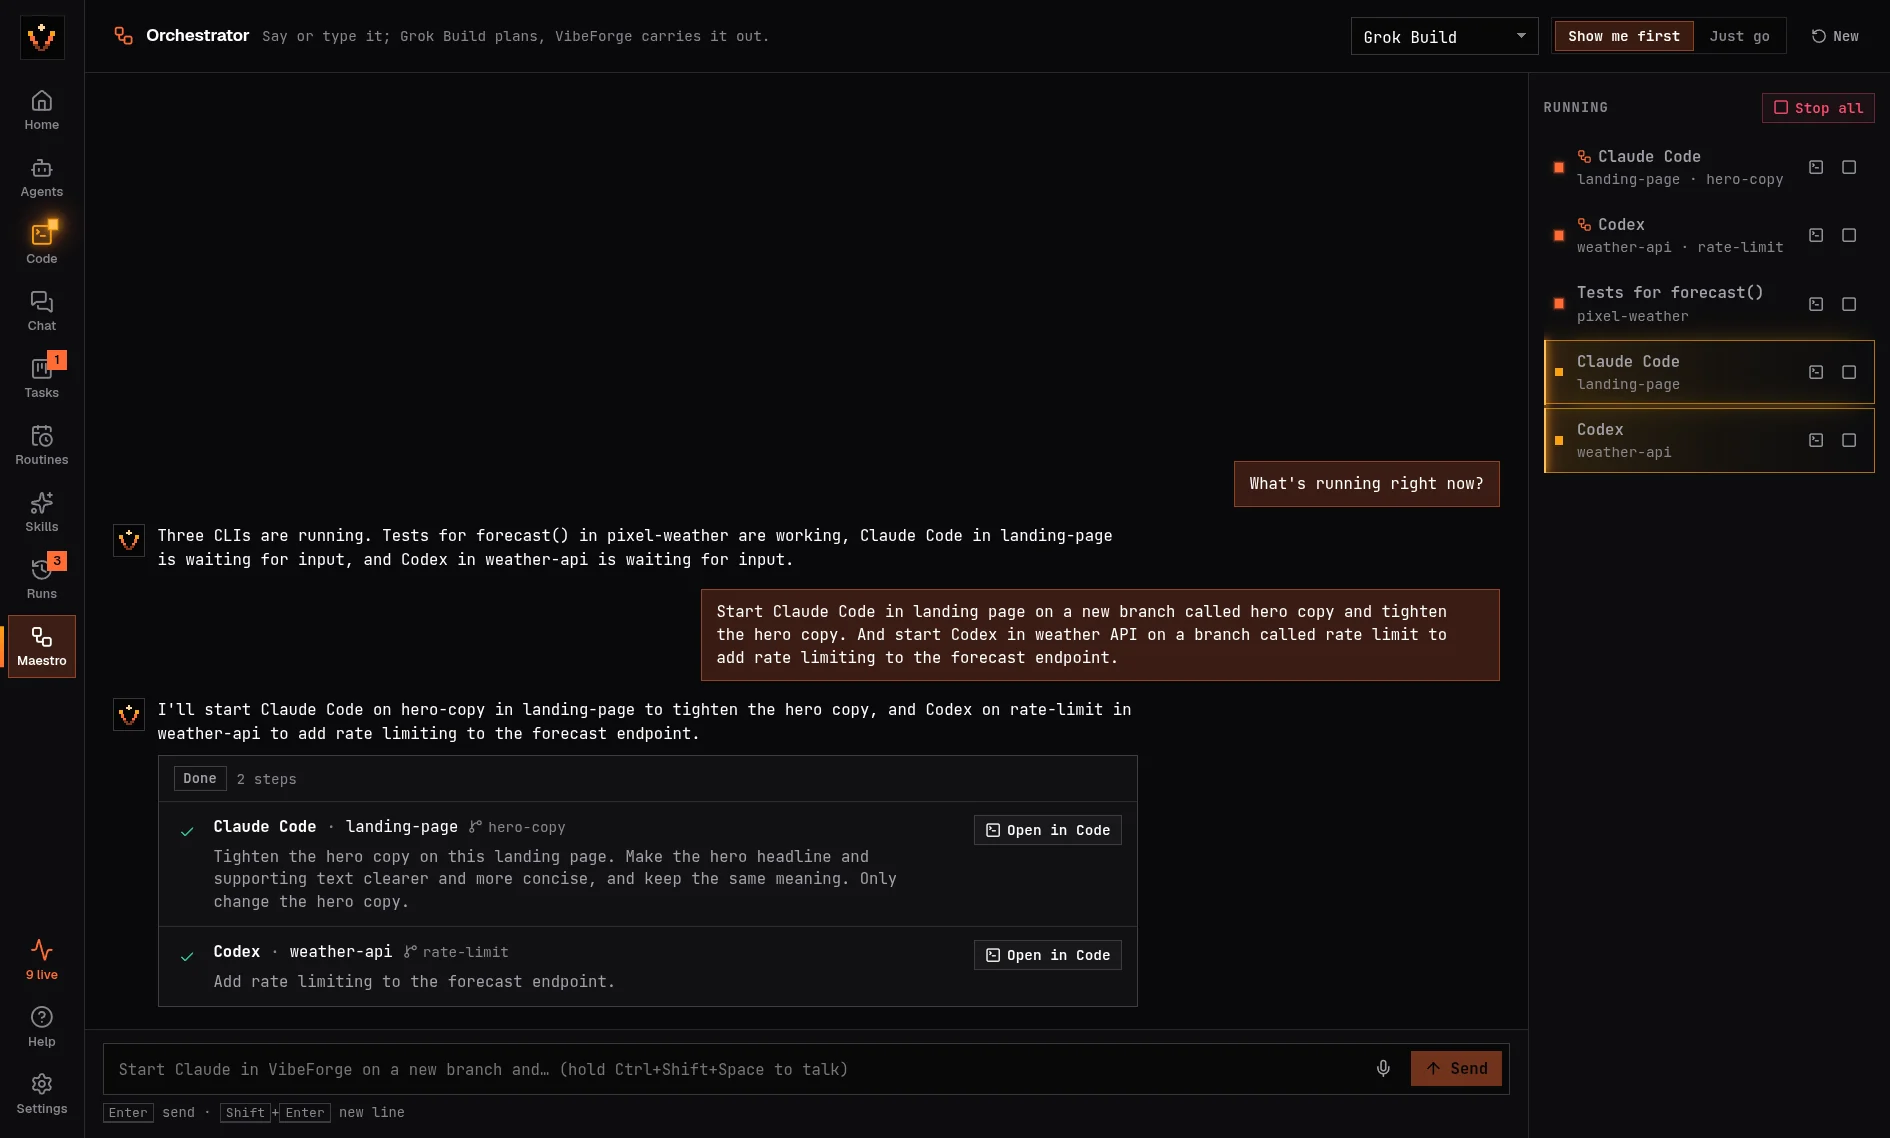
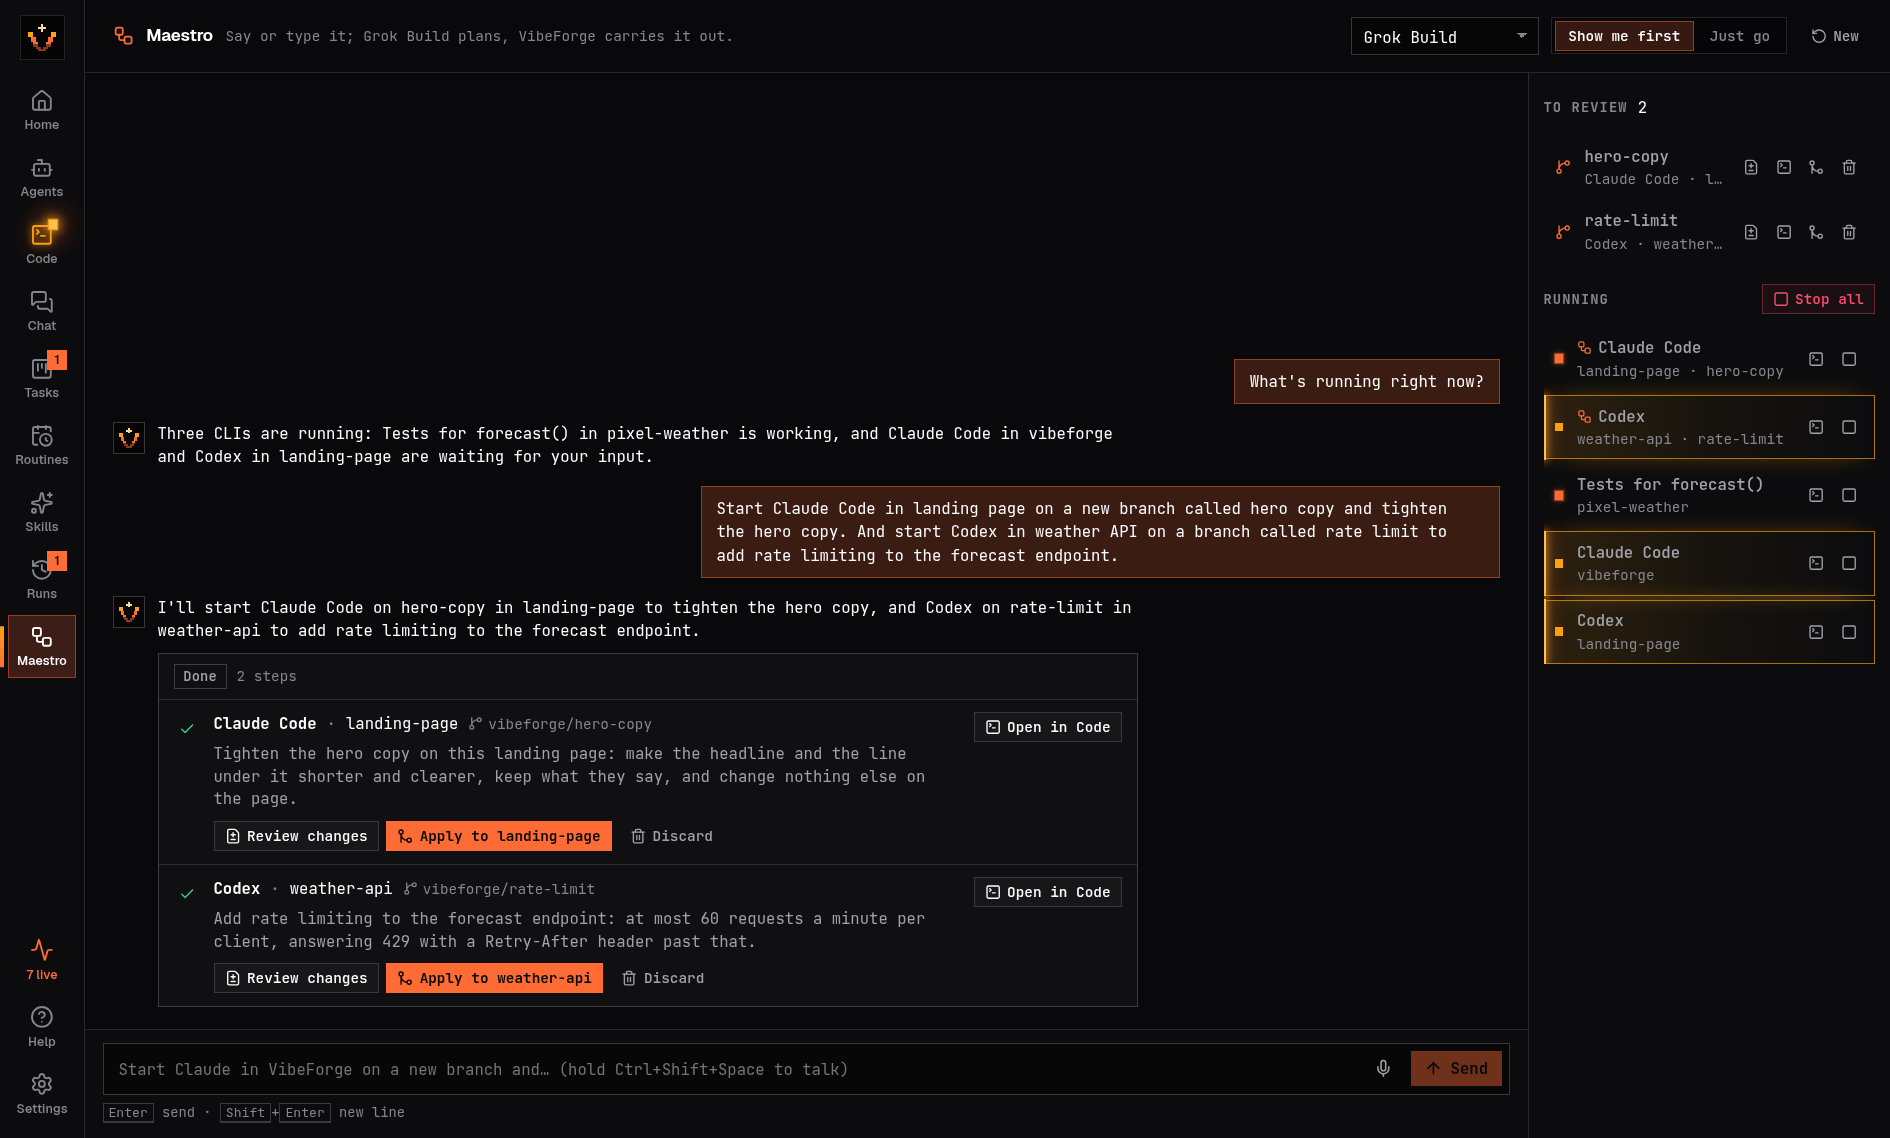
chore(site): retake the Maestro screenshot so it says Maestro
The tour's Maestro shot was taken before the feature got its one name,
so its title still read "Orchestrator". Retaken on 2.14.1 at the same
1890x1138, Apex Forge theme and demo projects as the other three, with
stand-in CLIs only. It now shows the newest part: each started step
with Review changes, Apply and Discard, and the copies under To review.
Lossless WebP keeps the small text crisp at about the old file's size.
The intro line names both versions the shots come from.

diff --git a/site/index.html b/site/index.html
@@ -609,7 +609,7 @@
         <div class="section-head reveal">
           <span class="kicker"><b>03</b> Tour</span>
           <h2>Inside the real app.</h2>
-          <p>Screenshots of VibeForge 2.12.1 on a working day, in the Apex Forge theme.</p>
+          <p>Screenshots of VibeForge 2.12.1 and 2.14.1 at work, in the Apex Forge theme.</p>
         </div>
         <div class="tour reveal" data-tour>
           <div class="tour-tabs" role="tablist" aria-label="Screenshots">
@@ -629,7 +629,7 @@
               <img src="assets/app-tasks.webp?v=2.12.1" width="1890" height="1138" alt="The task board with cards in To do, Running, Review and Done, each assigned to an agent and a workspace, the finished ones with their diff." loading="lazy" />
             </figure>
             <figure class="shot">
-              <img src="assets/app-maestro.webp?v=2.12.1" width="1890" height="1138" alt="Maestro: asked what's running, it answers in a sentence; asked to start Claude Code in landing-page on hero-copy and Codex in weather-api on rate-limit, it shows the plan, both steps done with Open in Code, and the Running list beside it marks the two it started." loading="lazy" />
+              <img src="assets/app-maestro.webp?v=2.14.1" width="1890" height="1138" alt="Maestro: asked what's running, it answers in a sentence; asked to start Claude Code in landing-page on hero-copy and Codex in weather-api on rate-limit, it carries out the plan, each step with Open in Code, Review changes, Apply and Discard for its own copy, and beside it the two copies wait under To review above the CLIs running." loading="lazy" />
             </figure>
           </div>
           <p class="tour-caption" data-tour-caption><b>Home</b> Running terminals, CLIs waiting on your input, diffs to review, and upcoming scheduled runs.</p>
